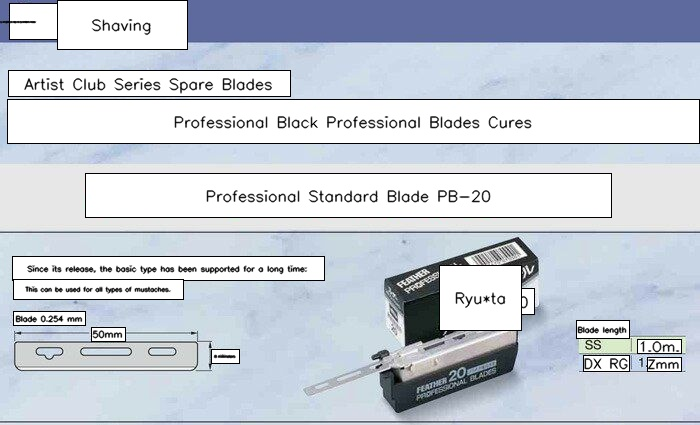
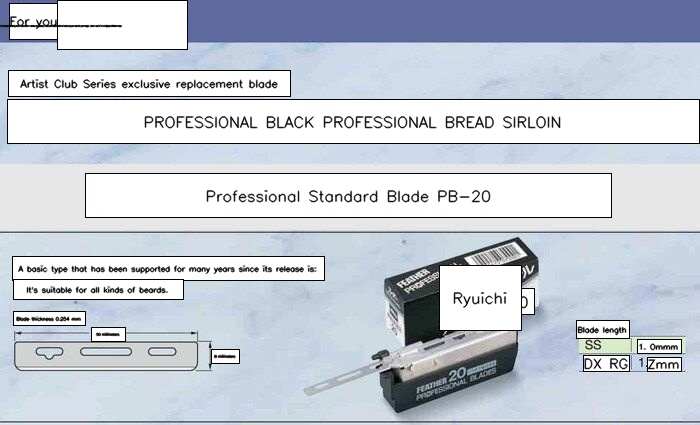
Added basic UI for image selection, translation, and display

diff --git a/app.py b/app.py
@@ -1,0 +1,83 @@
+# The UI elements were mostly generated using chatGPT. The program logic integrations were all done by me though
+
+import customtkinter
+import os
+
+from tkinter import filedialog
+from PIL import Image
+from main import translate_image
+
+app = customtkinter.CTk()
+app.title("Not Google Lens")
+app.geometry("960x540")  # Room for a bigger image
+
+# Label to display the image
+my_label = customtkinter.CTkLabel(app, text="")
+my_label.grid(row=1, column=0, padx=20, pady=10)
+
+# Store image, path, and filename
+image_reference = {"img": None}
+selected_file = {"path": None, "name": None}
+
+# Maximum size for displayed image (you can tweak this)
+MAX_WIDTH = 1920
+MAX_HEIGHT = 800
+
+def open_file():
+    filename = filedialog.askopenfilename(
+        initialdir="/",
+        title="Select a File",
+        filetypes=(("Image files", "*.png *.jpg *.jpeg"), ("All files", "*.*"))
+    )
+    if filename:
+        print("Selected file:", filename)
+        selected_file["path"] = filename
+        selected_file["name"] = os.path.basename(filename)
+
+        try:
+            # Open and resize image
+            img = Image.open(filename)
+            img.thumbnail((MAX_WIDTH, MAX_HEIGHT), Image.LANCZOS)
+
+            # Create CTkImage
+            ctk_img = customtkinter.CTkImage(light_image=img, dark_image=img, size=img.size)
+
+            # Prevent garbage collection
+            image_reference["img"] = ctk_img
+
+            # Display the image
+            my_label.configure(image=ctk_img)
+
+        except Exception as e:
+            print("Error loading image:", e)
+
+def translate_selected_image():
+    if selected_file["path"]:
+        print("Translating image...")
+        translated_image_path = translate_image(selected_file["path"], selected_file["name"])
+
+        if translated_image_path:
+            try:
+                img = Image.open(translated_image_path)
+                img.thumbnail((MAX_WIDTH, MAX_HEIGHT), Image.LANCZOS)
+
+                ctk_img = customtkinter.CTkImage(light_image=img, dark_image=img, size=img.size)
+                image_reference["img"] = ctk_img  # Prevent garbage collection
+                my_label.configure(image=ctk_img)
+                print("Displayed translated image:", translated_image_path)
+
+            except Exception as e:
+                print("Failed to load translated image:", e)
+        else:
+            print("No translated image returned.")
+    else:
+        print("No file selected!")
+
+# File selection button
+button = customtkinter.CTkButton(app, text="Open File", command=open_file)
+button.grid(row=0, column=0, padx=20, pady=20)
+
+button_process = customtkinter.CTkButton(app, text="Translate Image", command=translate_selected_image)
+button_process.grid(row=0, column=1, padx=20, pady=20)
+
+app.mainloop()

diff --git a/main.py b/main.py
@@ -7,31 +7,35 @@ from prompt_loader import load_prompt
 from translator import translate
 from overlay_text_boxes import overlay_text_boxes
 
-# Select image
-image_path = 'img/test-1.jpg'
-image = cv2.imread(image_path)
+def translate_image(image_path, image_name):
+    # Select image
+    image = cv2.imread(image_path)
 
-binarized_image_path = binarize(image)
+    binarized_image_path = binarize(image)
 
-print('Extracting text from image...')
+    print('Extracting text from image...')
 
-# OCR binarized image
-reader = easyocr.Reader(['ja', 'en'])  # e.g., Japanese + English
-ocr_results = reader.readtext(binarized_image_path)
+    # OCR binarized image
+    reader = easyocr.Reader(['ja', 'en'])  # e.g., Japanese + English
+    ocr_results = reader.readtext(binarized_image_path)
 
-# Delete binarized image
-os.remove(binarized_image_path)
+    # Delete binarized image
+    os.remove(binarized_image_path)
 
-print('Translating extracted text...')
+    print('Translating extracted text...')
 
-translation_prompt = load_prompt('translation_prompt.txt')
+    translation_prompt = load_prompt('translation_prompt.txt')
 
-translated_ocr_results = []
+    translated_ocr_results = []
 
-for bounding_box, text, confidence in ocr_results:
-    translated_text = translate(translation_prompt, text)
-    translated_ocr_results.append((bounding_box, translated_text, confidence))
+    for bounding_box, text, confidence in ocr_results:
+        translated_text = translate(translation_prompt, text)
+        translated_ocr_results.append((bounding_box, translated_text, confidence))
 
-output_path = './out/test-1-translated.jpg'
+    # output_path = './out/test-6-translated.jpg'
+    split_image_name = image_name.split('.')
+    output_path = './out/' + split_image_name[0] + "-translated." + split_image_name[1]
 
-overlay_text_boxes(image, translated_ocr_results, output_path)
+    overlay_text_boxes(image, translated_ocr_results, output_path)
+
+    return output_path
